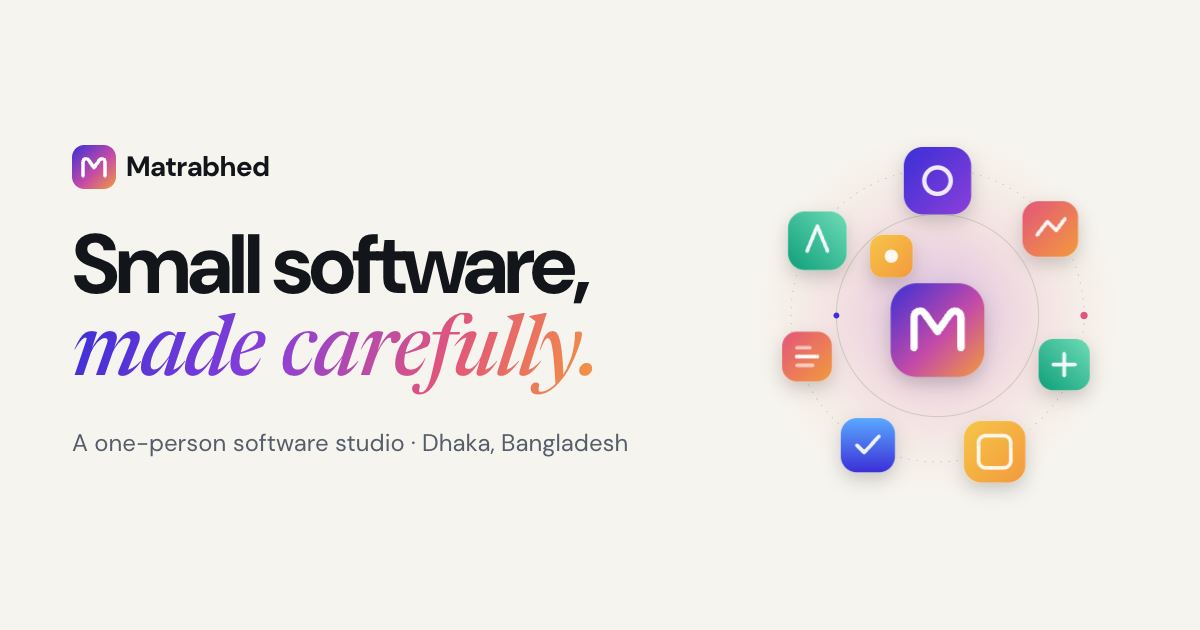
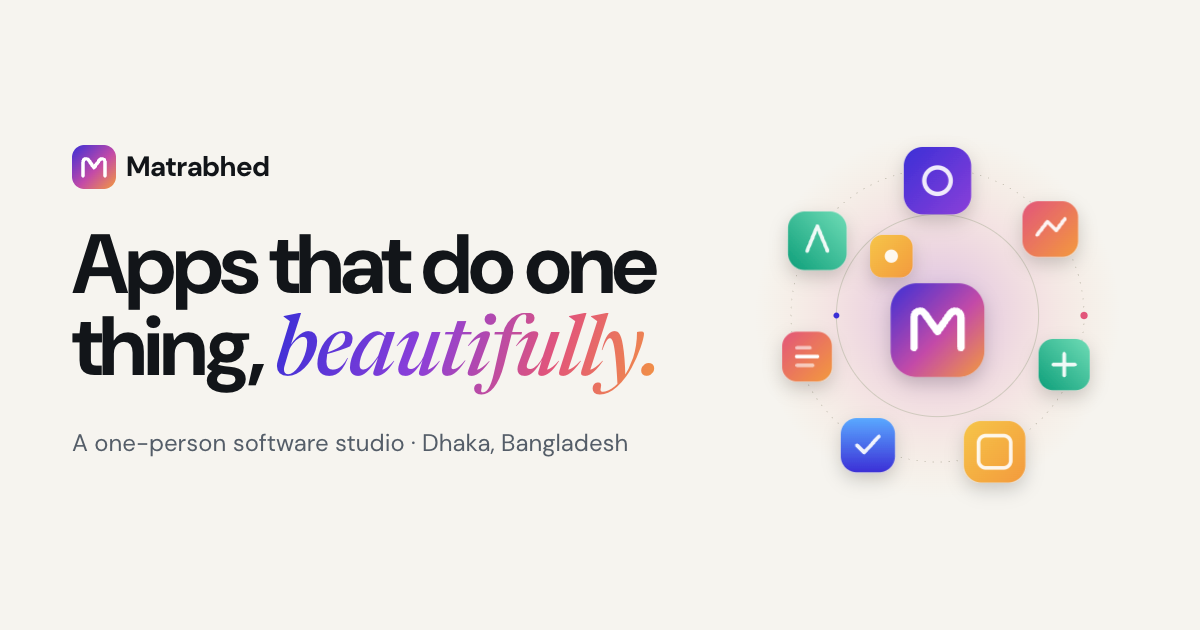
Tagline: Apps that do one thing, beautifully.

Changed region(s): [[0.0617, 0.3619, 0.555, 0.6333]]

diff --git a/index.html b/index.html
@@ -3,7 +3,7 @@
 <head>
 <meta charset="utf-8">
 <meta name="viewport" content="width=device-width, initial-scale=1">
-<title>Matrabhed: a one-person software studio. Small apps, made carefully.</title>
+<title>Matrabhed: a one-person software studio. Apps that do one thing, beautifully.</title>
 <meta name="description" content="Matrabhed is a one-person software studio in Dhaka, Bangladesh. Its Android apps (Recover, Shapely, NativeToEnglish, DevDocs, Dev Tools, Statly, Vitanote and Photobe) are published on Google Play under the developer name Agonized Soul.">
 <link rel="canonical" href="https://matrabhed.com/">
 <meta name="theme-color" content="#f6f4ef" media="(prefers-color-scheme: light)">
@@ -13,12 +13,12 @@
 <meta property="og:type" content="website">
 <meta property="og:site_name" content="Matrabhed">
 <meta property="og:url" content="https://matrabhed.com/">
-<meta property="og:title" content="Matrabhed: small software, made carefully">
+<meta property="og:title" content="Matrabhed: apps that do one thing, beautifully">
 <meta property="og:description" content="A one-person software studio in Dhaka, Bangladesh. Eight Android apps on Google Play, published as Agonized Soul.">
 <meta property="og:image" content="https://matrabhed.com/assets/og.png">
 <meta property="og:image:width" content="1200">
 <meta property="og:image:height" content="630">
-<meta property="og:image:alt" content="Matrabhed: small software, made carefully.">
+<meta property="og:image:alt" content="Matrabhed: apps that do one thing, beautifully.">
 <meta name="twitter:card" content="summary_large_image">
 <link rel="preconnect" href="https://fonts.googleapis.com">
 <link rel="preconnect" href="https://fonts.gstatic.com" crossorigin>
@@ -61,7 +61,7 @@
     <div class="wrap">
       <div>
         <p class="eyebrow">A one-person software studio</p>
-        <h1 class="display" id="hero-title">Small software, <em>made carefully.</em></h1>
+        <h1 class="display" id="hero-title">Apps that do one thing, <em>beautifully.</em></h1>
         <p class="lede">Matrabhed makes focused apps that each solve one problem properly, are priced plainly, and are supported by the person who wrote them.</p>
         <div class="hero-ctas">
           <a class="btn btn-primary" href="#apps">See the apps
